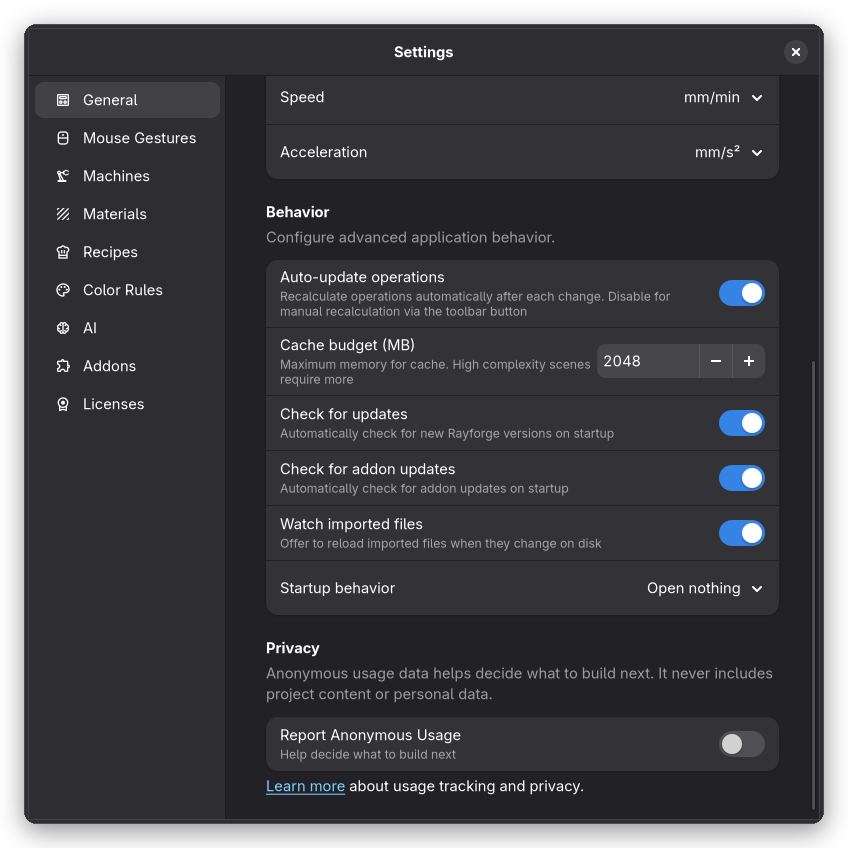
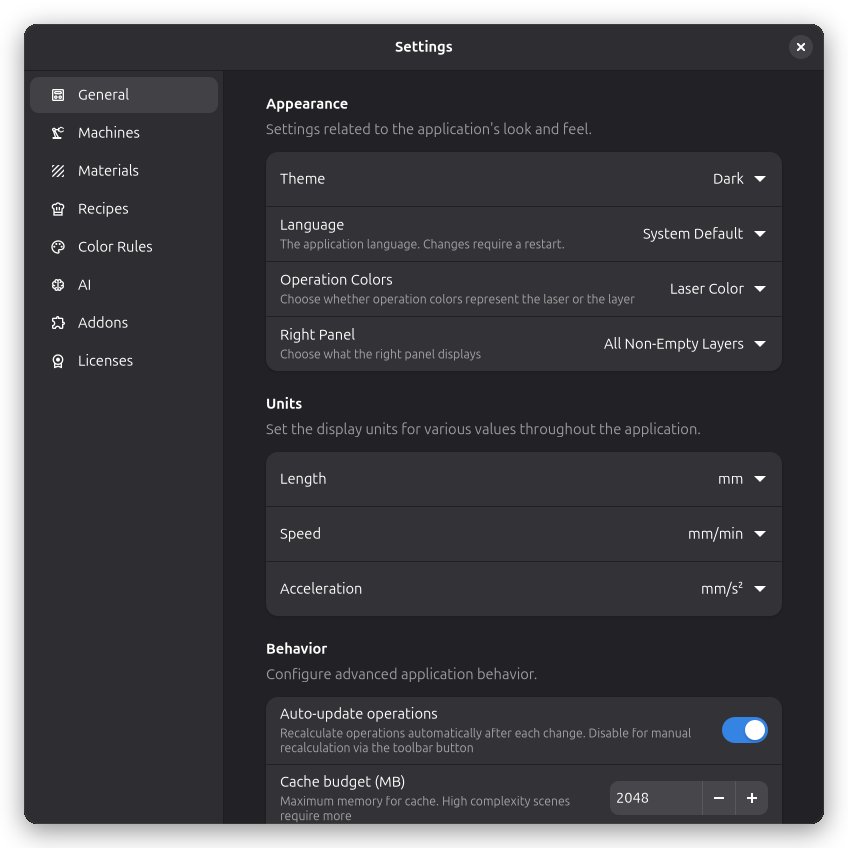
Restore the unscrolled general settings screenshot
The screenshot is embedded as the General page overview in the
docs of every language, so scrolling it down to the Behavior
section changes what those pages show. Restore the previous
script and image; the reformatting of the new row stays, since
the pinned ruff format requires it.

diff --git a/scripts/screenshot/app_settings_general.py b/scripts/screenshot/app_settings_general.py
@@ -3,11 +3,9 @@
 import logging
 import time
 
-from gi.repository import Gtk
 from utils import (
     open_app_settings,
     restore_config,
-    run_on_main_thread,
     take_screenshot,
 )
 
@@ -17,36 +15,11 @@ logger = logging.getLogger(__name__)
 PAGE = "general"
 
 
-def _iter_descendants(widget):
-    """Yield all descendants of a widget, depth-first."""
-    child = widget.get_first_child()
-    while child:
-        yield child
-        yield from _iter_descendants(child)
-        child = child.get_next_sibling()
-
-
-def _scroll_general_page_to_bottom(dialog):
-    """Show the behavior settings at the bottom of the general page."""
-
-    def _scroll():
-        page = dialog.content_stack.get_visible_child()
-        for widget in _iter_descendants(page):
-            if isinstance(widget, Gtk.ScrolledWindow):
-                adjustment = widget.get_vadjustment()
-                adjustment.set_value(adjustment.get_upper())
-                return
-
-    run_on_main_thread(_scroll)
-
-
 @restore_config
 def main():
     time.sleep(0.25)
-    dialog = open_app_settings(win, PAGE)
+    open_app_settings(win, PAGE)
     time.sleep(0.25)
-    _scroll_general_page_to_bottom(dialog)
-    time.sleep(0.75)
     take_screenshot()
     time.sleep(0.25)
     app.quit_idle()
